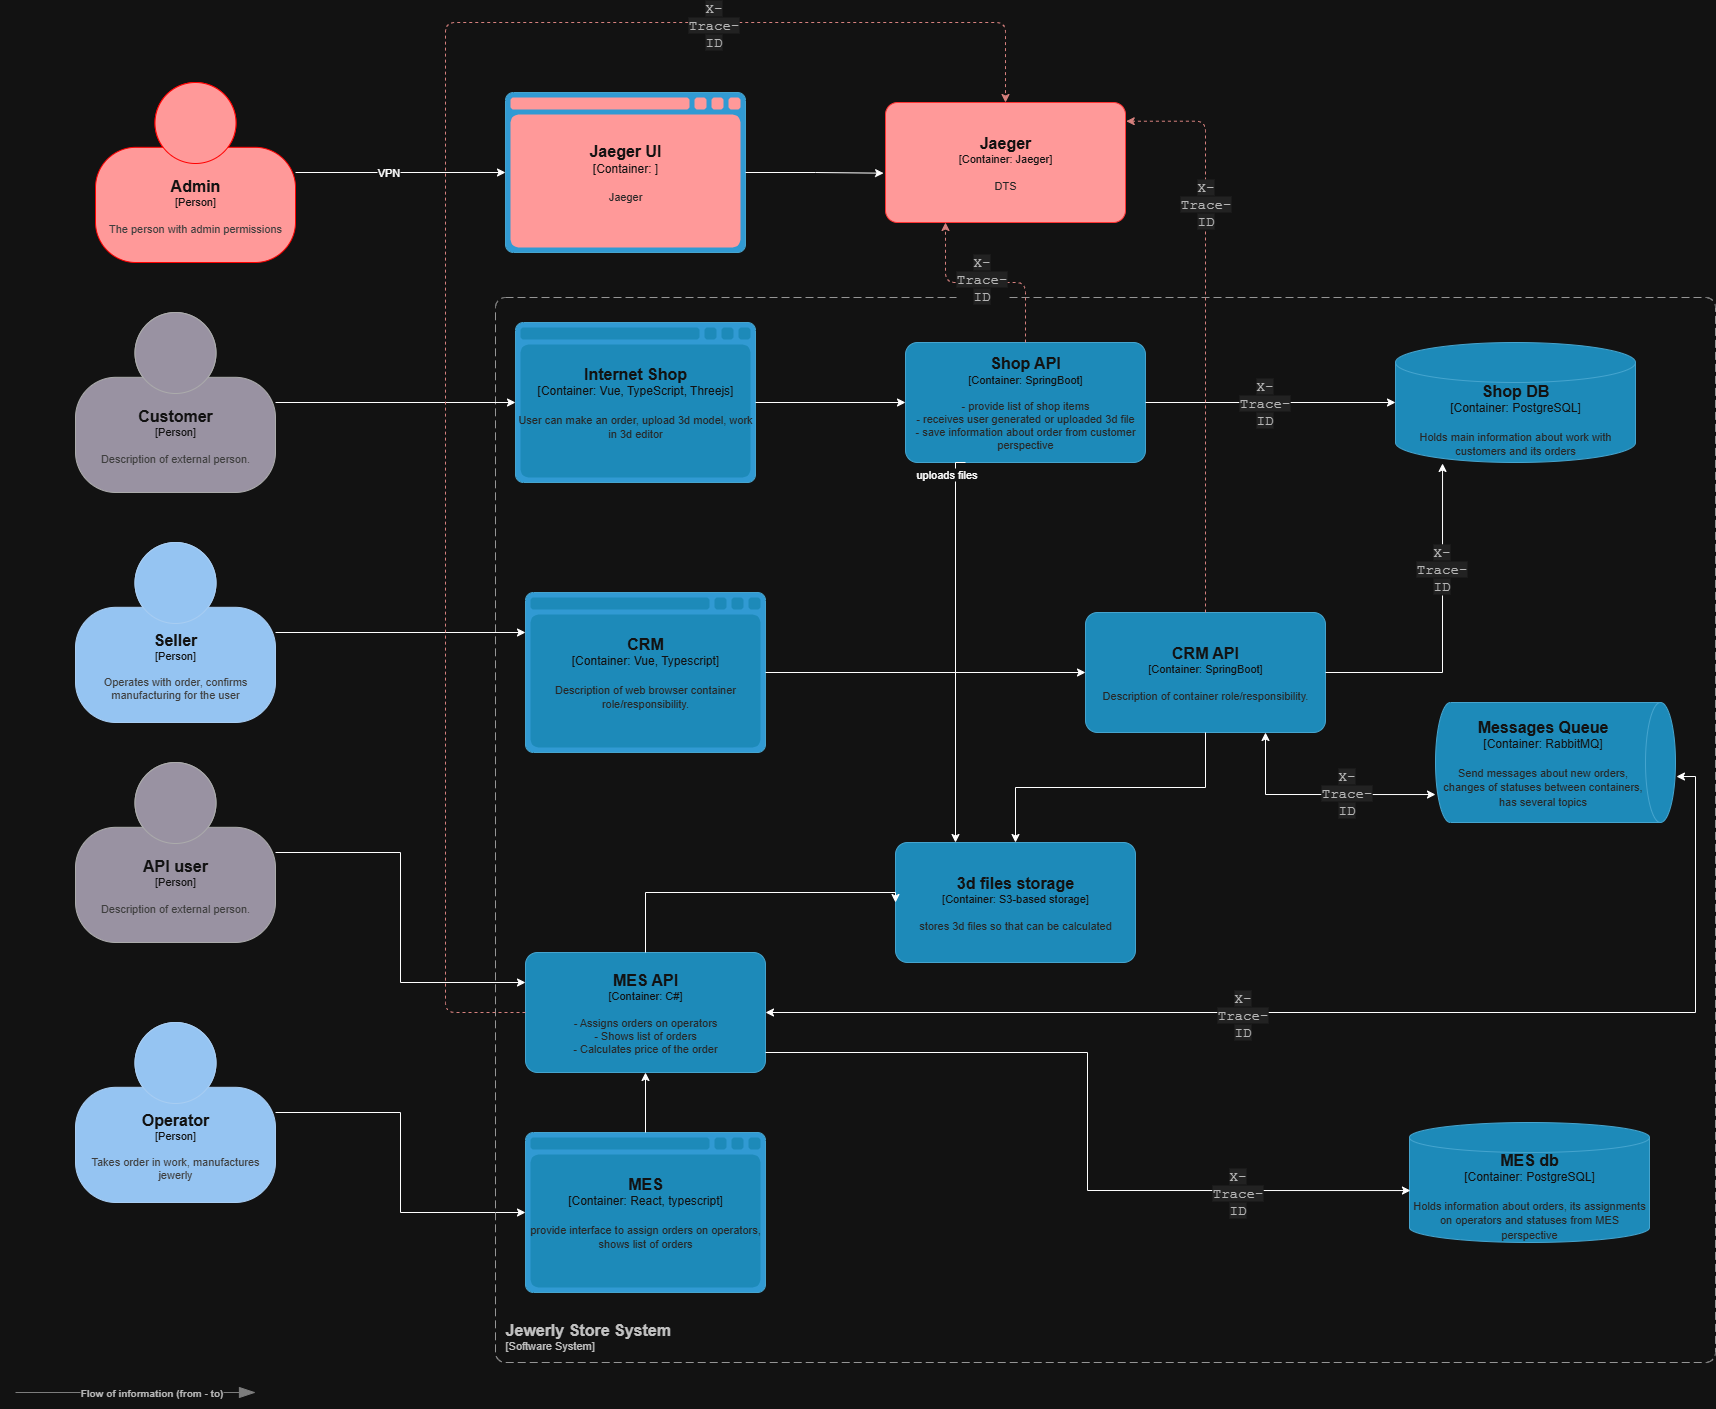
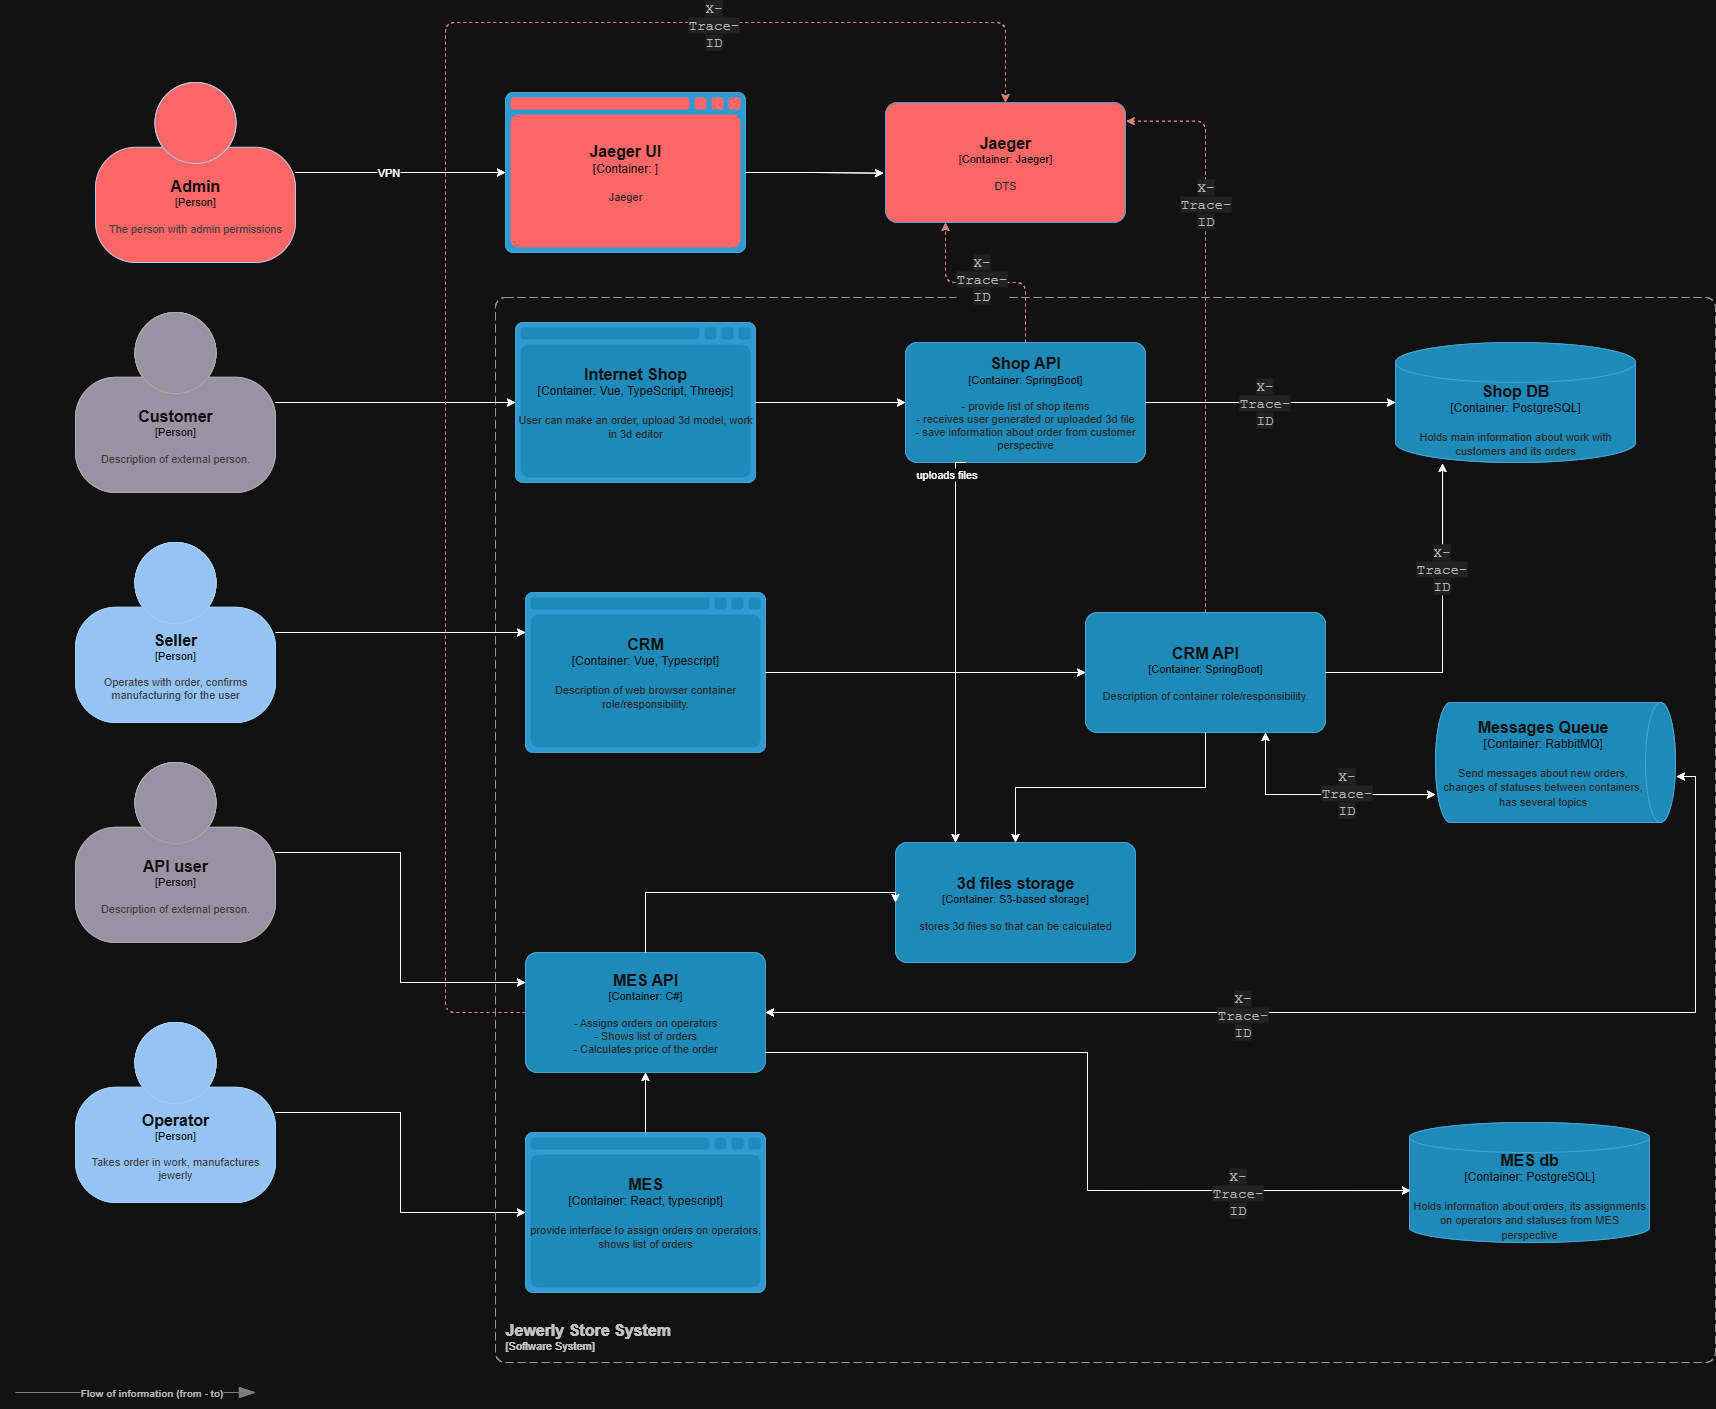
Feature: task 4 completed

diff --git a/Task 4/Архитектурное решение по логированию.md b/Task 4/Архитектурное решение по логированию.md
@@ -1,0 +1,83 @@
+Задание 4. Логирование
+
+**Мотивация**
+
+Внедрение централизованного логирования необходимо для решения критических бизнес-проблем компании "Александрит". Логирование позволит:
+
+*Технические преимущества:*
+- Оперативное выявление и диагностика сбоев в распределенной системе
+- Отслеживание полного жизненного цикла заказов
+- Анализ производительности и выявление узких мест
+- Ускорение расследования инцидентов
+
+*Бизнес-эффект:*
+- Снижение процента потерянных заказов
+- Улучшение соблюдения сроков выполнения заказов
+- Повышение клиентской удовлетворенности
+- Сокращение операционных затрат на поддержку
+
+*Приоритеты внедрения*
+
+В первую очередь логирование необходимо настроить для:
+1. **MES** - как наиболее критичного компонента, где происходят потери заказов
+2. **RabbitMQ** - для мониторинга асинхронной коммуникации
+3. **Онлайн-магазин** - для отслеживания взаимодействия с клиентами
+
+**Предлагаемое решение**
+
+[Диаграмма C4 с новыми компонентами плюс логирование](https://drive.google.com/file/d/1zUicZBTO_ez9rmHIetbgfH6VCLE9BiWw/view?usp=sharing)
+
+*Необходимые логи уровня INFO:*
+
+- Изменение статуса заказа: timestamp, order-ID, user GUID, система-источник
+- Отправка заказа в MES: order-ID, timestamp, этап обработки в MES
+- Расчет стоимости: order-ID, время расчета, количество полигонов модели
+- Обработка сообщений RabbitMQ: queue name, message ID, статус обработки
+
+*Другие уровни логирования:*
+- **WARN**: Выход параметров за границы нормы (высокая стоимость, большая очередь)
+- **ERROR**: Критические ошибки (MES 500, RabbitMQ недоступен, нехватка места)
+- **DEBUG**: Контекст для исследования крайних случаев
+
+*Технологический стек:*
+- ELK Stack  для сбора и анализа логов
+- Grafana для визуализации и алертинга
+
+*Политика безопасности*
+
+- Доступ только через VPN с двухфакторной аутентификацией
+- RBAC с минимальными привилегиями
+- Маскирование чувствительных данных (имена, контакты)
+- Шифрование TLS при передаче и AES-256 при хранении
+- Сегрегация логов по индексам в зависимости от чувствительности данных
+
+*Политика хранения*
+
+- **Логи исполнения обязательств**: Хранение до истечения гарантийных сроков
+- **Системные логи**: 90 дней
+- **Чувствительные данные**: 7 дней
+- Ротация логов: ежедневно
+- Резервное копирование: ежедневно
+- Мониторинг размера: алерты при заполнении 85% объема
+
+**Анализ логов и алертинг**
+
+- Настройка алертов в Grafana Alertmanager:
+    - Резкий всплеск нагрузки на компоненты системы
+    - Аномальная активность (DDoS-атаки)
+    - Превышение времени обработки заказов
+- Интеграция с системой инцидент-менеджмента
+- Реализация автоматического блокирования IP через Fail2Ban
+
+**Критерии выбора технологии**
+
+| Критерий | ELK Stack | Grafana Loki | Splunk | Datadog |
+|----------|-----------|--------------|--------|---------|
+| Лицензия | Elastic License | AGPLv3 | Проприетарная | Проприетарная |
+| Производительность | Горизонтальное масштабирование | Легковесный | Высокая | Облачное решение |
+| Безопасность | TLS, RBAC | OAuth | SOC2, HIPAA | SSO, GDPR |
+| Стоимость | Бесплатно | Низкая | Высокая | Зависит от масштаба |
+| Интеграция | OpenTelemetry | Prometheus | Универсальная | AWS, Kubernetes |
+
+**Выбор:** ELK Stack как наиболее сбалансированное решение по стоимости, функциональности и возможности масштабирования.
+

diff --git a/Task 3/Архитектурное решение по трейсингу.md b/Task 3/Архитектурное решение по трейсингу.md
@@ -27,7 +27,7 @@
 
 **Технологический стек:**
 **Схема архитектуры:**
-[Диаграмма C4 с новыми компонентами](https://drive.google.com/file/d/1zUicZBTO_ez9rmHIetbgfH6VCLE9BiWw/view?usp=sharing)
+[Диаграмма C4 с новыми компонентами](https://drive.google.com/file/d/1uaVC20x6N8FGJhyGTpnVnUD9qKtaHzy7/view?usp=sharing)
 
 **Компромиссы**
 
